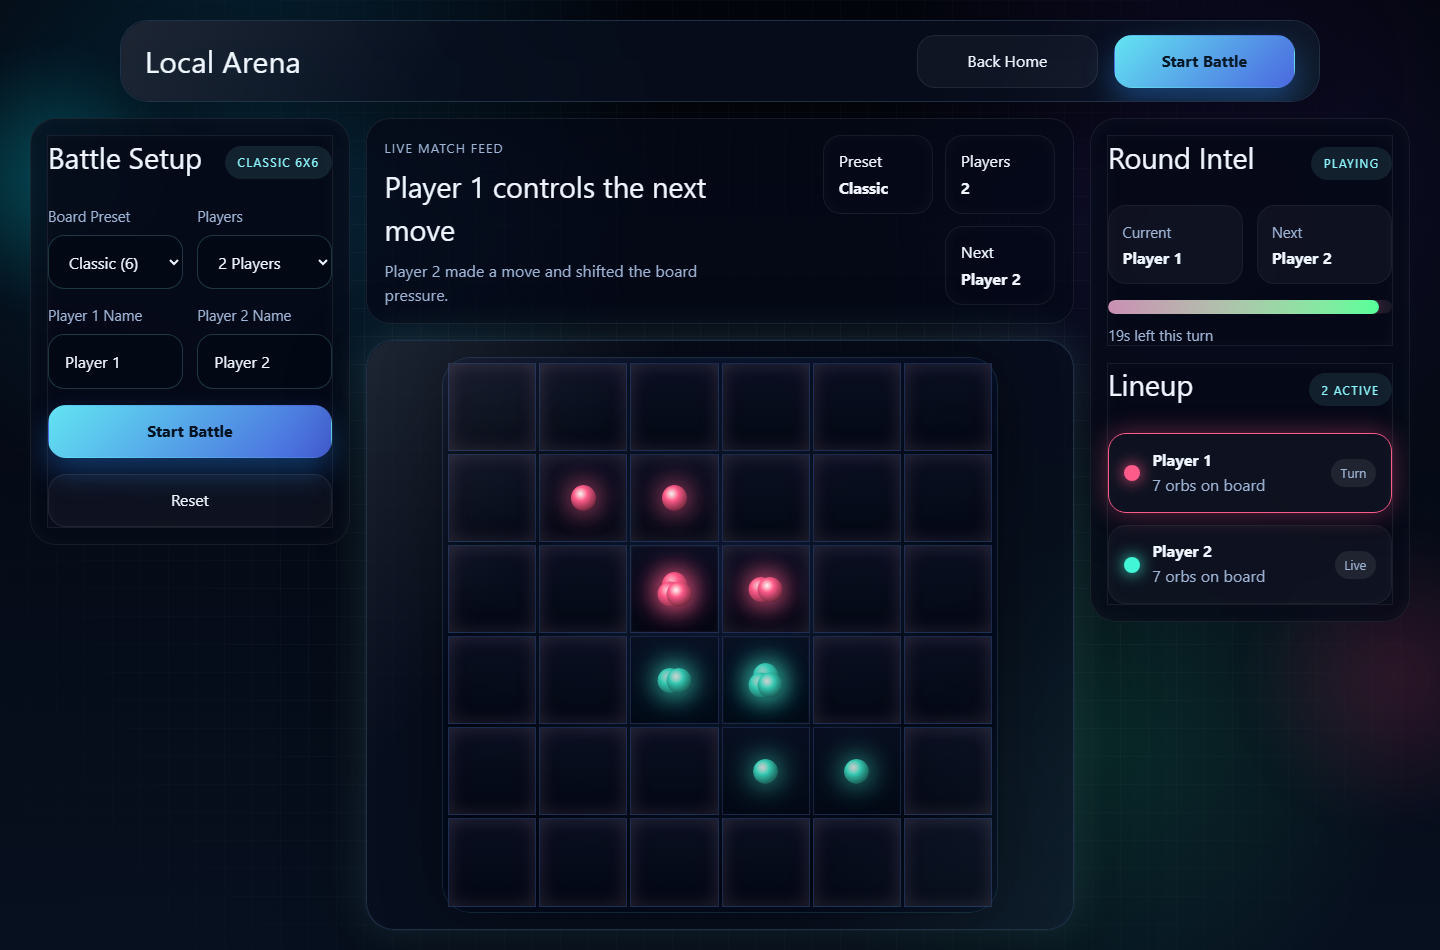
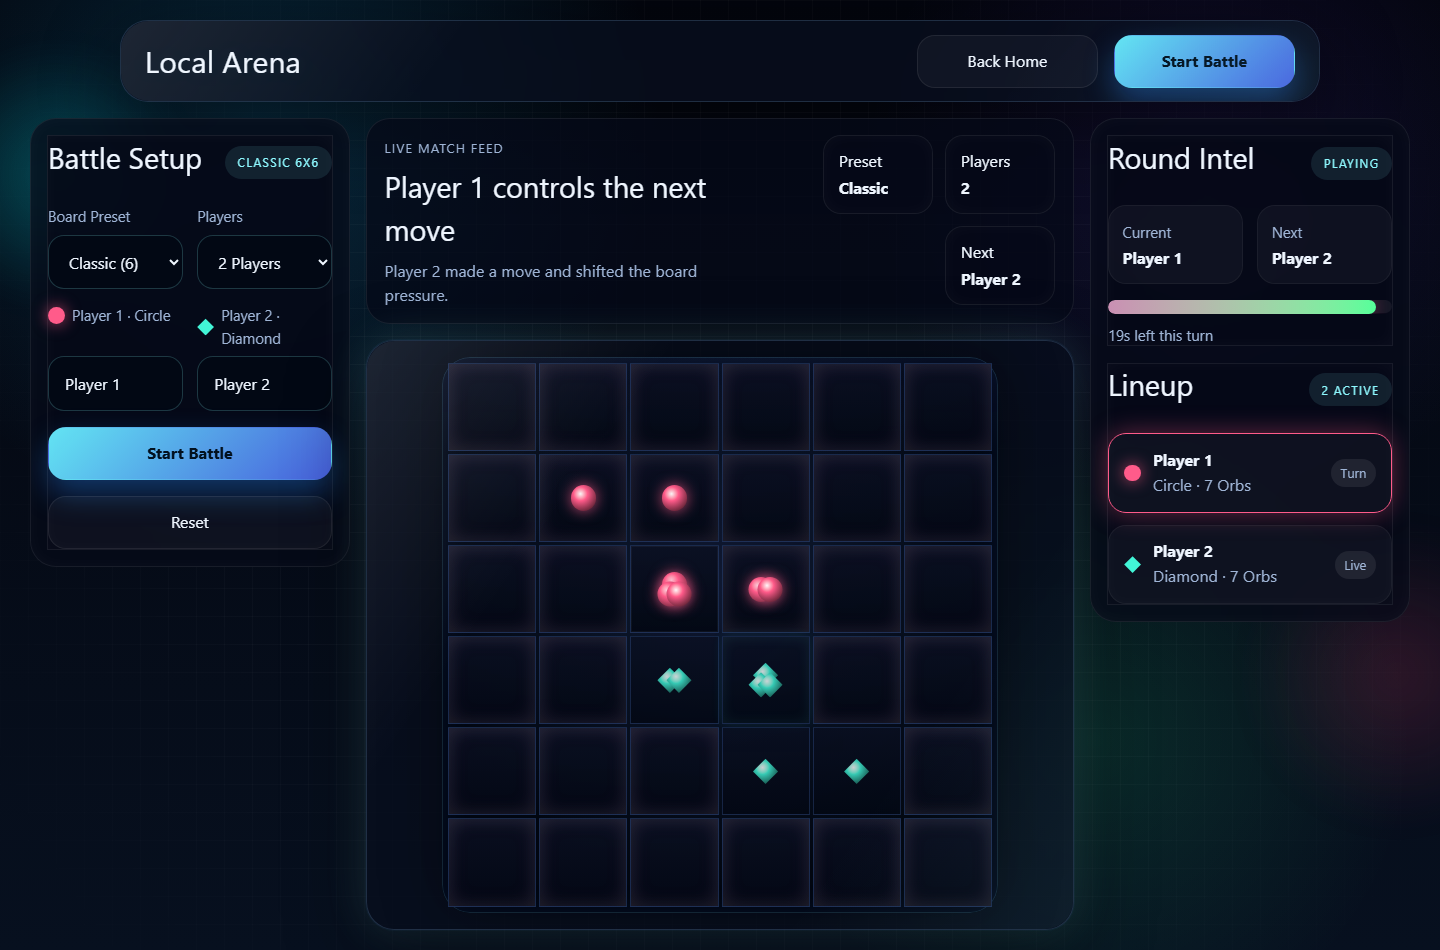
feat(a11y): give each player a shape, not just a colour
The definition of done says player identity must never rest on hue alone,
and the palette breaks that: seats 1 and 7 are pink (#ff5b8a) and green
(#79ff6b), which a red-green colour blind player cannot reliably separate.
The entire game is reading whose orbs are whose, so that is not cosmetic.

Adds PLAYER_SHAPES alongside PLAYER_COLORS — circle, diamond, triangle,
square, hexagon, star, pentagon, cross — ordered so the most
distinguishable silhouettes come first, since most matches are two-player.
`shape` is part of Player, so it travels with the engine state and will
reach multiplayer clients for free.

Shapes are cut with clip-path, which forced a change to the glow: box-shadow
is drawn from the border box and ignores clip-path, so a clipped orb kept a
round halo and lost its silhouette entirely. Switched to drop-shadow, which
is applied after clipping and follows the real outline. One shadow rather
than the previous two — a 14x14 board can hold several hundred orbs, and
the brief specifically warns about frame rate on a mid-range Android.

The shape is also named in text in the lineup ("Circle · 3 Orbs") and
previewed next to each name field during setup, so a player knows which
marker is theirs before the first move rather than inferring it from colour.

Also adds prefers-reduced-motion support. The game is built out of pulsing
cells, materialising orbs and a board that breathes while a reaction
[…]

diff --git a/app/globals.css b/app/globals.css
@@ -456,6 +456,36 @@ h2 {
   box-shadow: 0 0 18px color-mix(in srgb, var(--turn-color, #8ef9ff) 48%, transparent);
 }
 
+.seat-label {
+  display: flex;
+  align-items: center;
+  gap: 0.45rem;
+  text-transform: capitalize;
+}
+
+/*
+ * Seat labels wrap to two lines at some widths ("Player 2 ·" / "Diamond"),
+ * which pushed those inputs down relative to their neighbours. Stretch each
+ * label to the row height and pin the input to the bottom so the inputs line up
+ * regardless of how the text breaks.
+ */
+.names-grid .field-label {
+  height: 100%;
+}
+
+.names-grid .field-label input {
+  margin-top: auto;
+}
+
+.seat-swatch {
+  width: 0.8rem;
+  height: 0.8rem;
+}
+
+.player-line-main p {
+  text-transform: capitalize;
+}
+
 .turn-countdown {
   margin: 0.6rem 0 0;
   color: var(--muted);
@@ -491,11 +521,14 @@ h2 {
 }
 
 .player-dot {
-  width: 1rem;
-  height: 1rem;
+  width: 1.05rem;
+  height: 1.05rem;
+  flex: none;
   border-radius: 50%;
   background: var(--player-color);
-  box-shadow: 0 0 16px var(--player-color);
+  /* Matches the orb treatment so the lineup marker and the board pieces read as
+     the same thing — that association is the whole point of the shape. */
+  filter: drop-shadow(0 0 8px color-mix(in srgb, var(--player-color) 75%, transparent));
 }
 
 .player-tag {
@@ -705,10 +738,69 @@ h2 {
   border-radius: 50%;
   background:
     radial-gradient(circle at 38% 34%, rgba(255, 255, 255, 0.95), var(--player-color) 30%, color-mix(in srgb, var(--player-color) 42%, black) 78%);
-  box-shadow:
-    0 0 24px color-mix(in srgb, var(--player-color) 80%, transparent),
-    0 0 42px color-mix(in srgb, var(--player-color) 42%, transparent);
+  /*
+   * drop-shadow rather than box-shadow: box-shadow is drawn from the border box
+   * and ignores clip-path, so a clipped orb would keep a round halo and lose the
+   * silhouette entirely. drop-shadow is applied after clipping and follows the
+   * real shape. One shadow, not two — a 14x14 board can hold several hundred
+   * orbs and filters are the expensive part on a mid-range phone.
+   */
+  filter: drop-shadow(0 0 7px color-mix(in srgb, var(--player-color) 72%, transparent));
   animation: orb-materialize 260ms cubic-bezier(0.2, 0.8, 0.2, 1);
+}
+
+/*
+ * Player identity carries on a second, non-colour channel. See PLAYER_SHAPES in
+ * lib/engine/rules.ts for why: seats 1 and 7 are pink and green, which a
+ * red-green colour blind player cannot separate, and the entire game is reading
+ * whose orbs are whose.
+ */
+.orb[data-shape="diamond"],
+.player-dot[data-shape="diamond"] {
+  border-radius: 6%;
+  clip-path: polygon(50% 0%, 100% 50%, 50% 100%, 0% 50%);
+}
+
+.orb[data-shape="triangle"],
+.player-dot[data-shape="triangle"] {
+  border-radius: 6%;
+  clip-path: polygon(50% 2%, 98% 94%, 2% 94%);
+}
+
+.orb[data-shape="square"],
+.player-dot[data-shape="square"] {
+  border-radius: 16%;
+}
+
+.orb[data-shape="hexagon"],
+.player-dot[data-shape="hexagon"] {
+  border-radius: 6%;
+  clip-path: polygon(25% 3%, 75% 3%, 100% 50%, 75% 97%, 25% 97%, 0% 50%);
+}
+
+.orb[data-shape="star"],
+.player-dot[data-shape="star"] {
+  border-radius: 0;
+  clip-path: polygon(
+    50% 0%, 61% 34%, 98% 34%, 68% 56%,
+    79% 91%, 50% 69%, 21% 91%, 32% 56%,
+    2% 34%, 39% 34%
+  );
+}
+
+.orb[data-shape="pentagon"],
+.player-dot[data-shape="pentagon"] {
+  border-radius: 6%;
+  clip-path: polygon(50% 0%, 100% 38%, 82% 100%, 18% 100%, 0% 38%);
+}
+
+.orb[data-shape="cross"],
+.player-dot[data-shape="cross"] {
+  border-radius: 0;
+  clip-path: polygon(
+    34% 0%, 66% 0%, 66% 34%, 100% 34%, 100% 66%, 66% 66%,
+    66% 100%, 34% 100%, 34% 66%, 0% 66%, 0% 34%, 34% 34%
+  );
 }
 
 .cell.flash .orb {
@@ -1030,5 +1122,30 @@ h2 {
 
   .victory-stats {
     grid-template-columns: 1fr;
+  }
+}
+
+/*
+ * Respect a reduced-motion preference.
+ *
+ * This game is built out of pulsing cells, materialising orbs, energy rings and
+ * a board that breathes while a reaction resolves — which is the appeal, and
+ * also exactly the kind of thing that triggers motion sickness or migraine. The
+ * cascade still steps through its frames so the game stays readable and
+ * playable; only the decorative motion stops.
+ */
+@media (prefers-reduced-motion: reduce) {
+  *,
+  *::before,
+  *::after {
+    animation-duration: 0.01ms !important;
+    animation-iteration-count: 1 !important;
+    transition-duration: 0.01ms !important;
+    scroll-behavior: auto !important;
+  }
+
+  .ambient,
+  .background-grid {
+    animation: none !important;
   }
 }

diff --git a/components/local-arena.tsx b/components/local-arena.tsx
@@ -12,12 +12,14 @@ import {
   criticalMass,
   isLegalMove,
   PLAYER_COLORS,
+  PLAYER_SHAPES,
   pickAutoMove,
   TURN_SECONDS,
   type Board,
   type GameState,
   type GridConfig,
   type Player,
+  type PlayerShape,
   type PresetId
 } from "@/lib/engine";
 
@@ -42,6 +44,7 @@ function buildPlayers(playerNames: string[]): Player[] {
     id: `player-${index + 1}`,
     name: name.trim() || `Player ${index + 1}`,
     color: PLAYER_COLORS[index],
+    shape: PLAYER_SHAPES[index],
     hasEnteredPlay: false,
     isEliminated: false
   }));
@@ -72,11 +75,12 @@ function buildVictorySweep(board: Board, winnerId: string): Array<{ board: Board
   });
 }
 
-function createOrbMarkup(count: number, color: string) {
+function createOrbMarkup(count: number, color: string, shape: PlayerShape) {
   return Array.from({ length: count }, (_, index) => (
     <span
       key={`${color}-${count}-${index}`}
       className={`orb count-${Math.min(count, 4)}`}
+      data-shape={shape}
       style={{ ["--player-color" as string]: color }}
     />
   ));
@@ -376,7 +380,16 @@ export function LocalArena() {
               <div className="form-grid names-grid">
                 {playerNames.slice(0, playerCount).map((name, index) => (
                   <label key={`player-name-${index + 1}`} className="field-label">
-                    <span>Player {index + 1} Name</span>
+                    <span className="seat-label">
+                      {/* Shown before the match so a player knows which marker is
+                          theirs without having to infer it from colour. */}
+                      <span
+                        className="player-dot seat-swatch"
+                        data-shape={PLAYER_SHAPES[index]}
+                        style={{ ["--player-color" as string]: PLAYER_COLORS[index] }}
+                      />
+                      Player {index + 1} · {PLAYER_SHAPES[index]}
+                    </span>
                     <input
                       value={name}
                       disabled={phase === "playing"}
@@ -470,7 +483,9 @@ export function LocalArena() {
                           : `Row ${cell.row + 1}, column ${cell.col + 1}: empty`
                       }
                     >
-                      {cell.count > 0 && owner ? <div className="orb-stack">{createOrbMarkup(cell.count, owner.color)}</div> : null}
+                      {cell.count > 0 && owner ? (
+                        <div className="orb-stack">{createOrbMarkup(cell.count, owner.color, owner.shape)}</div>
+                      ) : null}
                     </motion.button>
                   );
                 })}
@@ -528,10 +543,14 @@ export function LocalArena() {
                     style={{ ["--player-color" as string]: player.color }}
                   >
                     <div className="player-line-main">
-                      <span className="player-dot" />
+                      <span className="player-dot" data-shape={player.shape} />
                       <div>
                         <strong>{player.name}</strong>
-                        <p>{countPlayerOrbsOnBoard(displayBoard, player.id)} orbs on board</p>
+                        {/* Naming the shape gives the colour a text fallback, which is
+                            what actually helps when the hues are indistinguishable. */}
+                        <p>
+                          {player.shape} · {countPlayerOrbsOnBoard(displayBoard, player.id)} orbs
+                        </p>
                       </div>
                     </div>
                     <span className={`player-tag ${player.isEliminated ? "eliminated" : ""}`}>

diff --git a/lib/engine/rules.ts b/lib/engine/rules.ts
@@ -1,4 +1,4 @@
-import type { Board, Cell, GridConfig, PlayerId } from "./types";
+import type { Board, Cell, GridConfig, PlayerId, PlayerShape } from "./types";
 
 /**
  * Board size presets. The product spec is explicit that the UI offers these five
@@ -27,6 +27,29 @@ export const PLAYER_COLORS = [
   "#79ff6b",
   "#ff74f1"
 ] as const;
+
+/**
+ * A distinct silhouette per seat, paired with the colour above.
+ *
+ * Player identity must never rest on hue alone: seats 1 and 7 are pink and
+ * green, which a red-green colour blind player cannot reliably separate, and
+ * the whole game is "whose orbs are those". The shape is the redundant channel,
+ * and it survives colour blindness, a dim phone screen and a low-quality
+ * screen recording alike.
+ *
+ * Ordered so the most distinguishable silhouettes come first — most matches are
+ * two-player, so those two should be the easiest pair to tell apart.
+ */
+export const PLAYER_SHAPES: readonly PlayerShape[] = [
+  "circle",
+  "diamond",
+  "triangle",
+  "square",
+  "hexagon",
+  "star",
+  "pentagon",
+  "cross"
+];
 
 export function isInsideBoard(row: number, col: number, config: GridConfig) {
   return row >= 0 && col >= 0 && row < config.rows && col < config.cols;

diff --git a/e2e/local.spec.ts b/e2e/local.spec.ts
@@ -50,6 +50,23 @@ test.describe("local arena", () => {
     await expect(cell(page, 3, 3)).toBeDisabled();
   });
 
+  test("gives every player a distinct shape, not just a distinct colour", async ({ page }) => {
+    await page.goto("/local");
+    await page.getByLabel("Players").selectOption("4");
+    await page.getByRole("button", { name: "Start Battle" }).first().click();
+    await expect(page.getByRole("heading", { name: /controls the next move/ })).toBeVisible();
+
+    // Identity must not rest on hue alone — seats 1 and 7 are pink and green,
+    // which a red-green colour blind player cannot separate.
+    const shapes = await page.locator(".player-line .player-dot").evaluateAll((nodes) =>
+      nodes.map((node) => node.getAttribute("data-shape"))
+    );
+
+    expect(shapes).toHaveLength(4);
+    expect(shapes.every(Boolean)).toBe(true);
+    expect(new Set(shapes).size, `expected 4 distinct shapes, got ${shapes.join(", ")}`).toBe(4);
+  });
+
   test("board stays inside the viewport on a phone", async ({ page }) => {
     await startBattle(page);
 

diff --git a/lib/engine/__tests__/engine.test.ts b/lib/engine/__tests__/engine.test.ts
@@ -1,6 +1,6 @@
 import { describe, expect, it } from "vitest";
 import { applyMove, createInitialState, isLegalMove, pickAutoMove } from "../engine";
-import { countTotalOrbs, criticalMass, getOwnersWithOrbs } from "../rules";
+import { countTotalOrbs, criticalMass, getOwnersWithOrbs, PLAYER_SHAPES } from "../rules";
 import { EngineError } from "../types";
 import type { GameState, GridConfig, Player } from "../types";
 
@@ -11,6 +11,7 @@ function makePlayers(count: number): Player[] {
     id: `p${index + 1}`,
     name: `Player ${index + 1}`,
     color: "#ffffff",
+    shape: PLAYER_SHAPES[index],
     hasEnteredPlay: false,
     isEliminated: false
   }));

diff --git a/lib/engine/types.ts b/lib/engine/types.ts
@@ -26,10 +26,17 @@ export type Cell = {
 
 export type Board = Cell[][];
 
+/**
+ * The redundant, non-colour channel for player identity. See `PLAYER_SHAPES`.
+ */
+export type PlayerShape = "circle" | "diamond" | "triangle" | "square" | "hexagon" | "star" | "pentagon" | "cross";
+
 export type Player = {
   id: PlayerId;
   name: string;
   color: string;
+  /** Paired with `color` so identity never depends on hue alone. */
+  shape: PlayerShape;
   /**
    * Set once the player has actually taken a turn. Elimination is gated on this
    * so that a player who simply has not moved yet is never mistaken for a player

diff --git a/lib/engine/index.ts b/lib/engine/index.ts
@@ -20,6 +20,7 @@ export type { ApplyMoveOptions } from "./engine";
 export {
   BOARD_PRESETS,
   PLAYER_COLORS,
+  PLAYER_SHAPES,
   TURN_SECONDS,
   cloneBoard,
   countPlayerOrbs,
@@ -45,5 +46,6 @@ export type {
   Move,
   MoveResult,
   Player,
-  PlayerId
+  PlayerId,
+  PlayerShape
 } from "./types";

diff --git a/README.md b/README.md
@@ -60,6 +60,11 @@ Local arena mid-match, 6×6 Classic:
 
 ![The local arena during a two-player match](docs/images/local-arena.png)
 
+Player identity carries on shape as well as colour, so it survives colour
+blindness:
+
+![A four-player match where each player has a distinct silhouette](docs/images/player-shapes.png)
+
 Board-first on a phone — the grid is reachable without scrolling:
 
 <img src="docs/images/local-mobile.png" alt="Local arena on a 390px-wide phone viewport" width="330">
